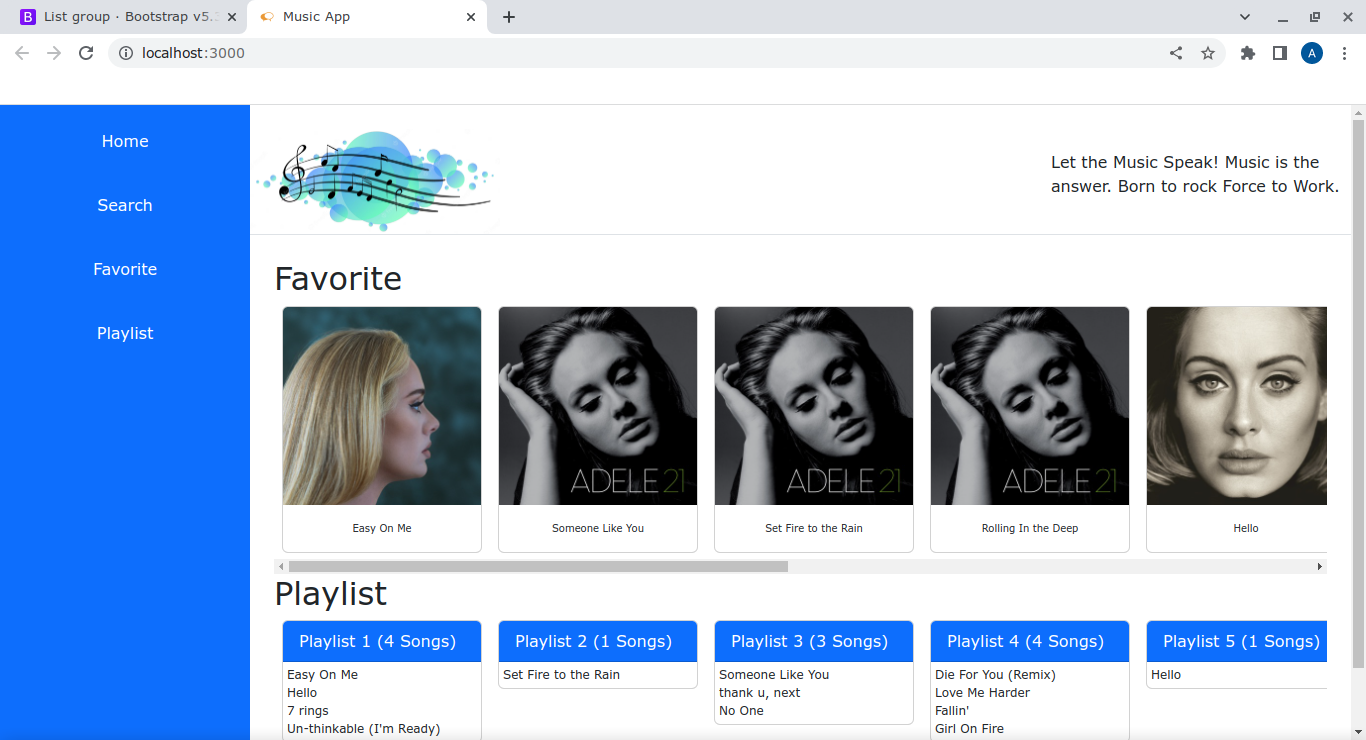
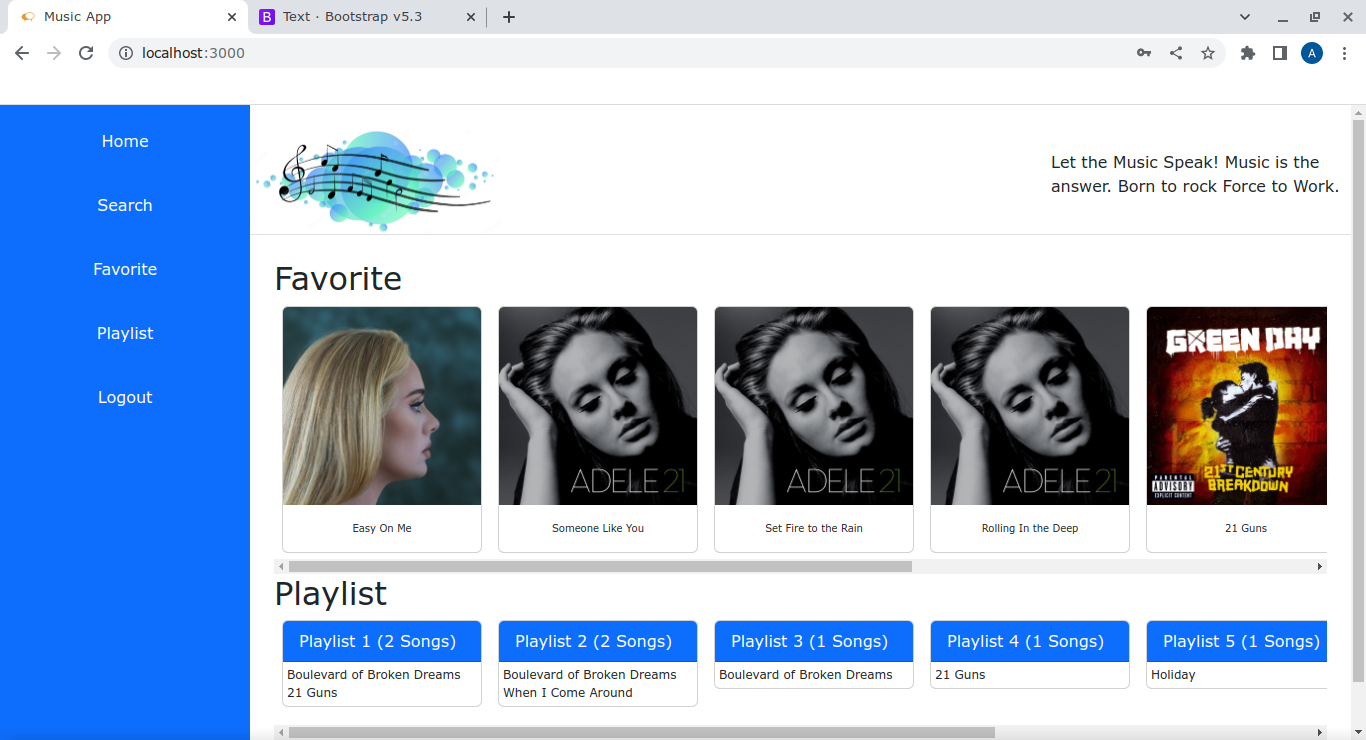
keycloak implementation

diff --git a/src/App.tsx b/src/App.tsx
@@ -3,10 +3,28 @@ import Search from "./components/Search";
 import Favorite from "./components/Favorite";
 import Playlist from "./components/Playlist";
 import { useAppContext } from "./context";
+import { useKeycloak } from "@react-keycloak/web";
 
 export default function App() {
   const { appStatus, handleAppStatus } = useAppContext();
-
+  const { keycloak } = useKeycloak();
+  const isLoggedIn = keycloak.authenticated;
+  if (!isLoggedIn) {
+    return (
+      <div className="position-fixed top-0 start-0 w-100 h-100 bg-white d-flex align-items-center justify-content-center">
+        <div className="d-flex  flex-column gap-4">
+          <h2 className="text-center fw-bold">Login with Keycloak</h2>
+          <button
+            className="btn btn-primary"
+            style={{ width: "100px", margin: "auto" }}
+            onClick={() => keycloak.login()}
+          >
+            Login
+          </button>
+        </div>
+      </div>
+    );
+  }
   return (
     <div className="py-4" style={{ marginLeft: "250px", minHeight: "100vh" }}>
       {/* Sidebar */}
@@ -41,6 +59,13 @@ export default function App() {
           style={{ cursor: "pointer" }}
         >
           Playlist
+        </p>
+        <p
+          className="text-white text-center font-weight-bold"
+          onClick={() => keycloak.logout()}
+          style={{ cursor: "pointer" }}
+        >
+          Logout
         </p>
       </div>
       {/* Home */}

diff --git a/src/index.tsx b/src/index.tsx
@@ -1,17 +1,18 @@
-import React from "react";
 import ReactDOM from "react-dom/client";
 
-import AppProvider from "./context";
 import App from "./App";
+import keycloak from "./keycloak";
+import AppProvider from "./context";
 import "bootstrap/dist/css/bootstrap.css";
+import { ReactKeycloakProvider } from "@react-keycloak/web";
 
 const root = ReactDOM.createRoot(
   document.getElementById("root") as HTMLElement
 );
 root.render(
-  <React.StrictMode>
+  <ReactKeycloakProvider authClient={keycloak}>
     <AppProvider>
       <App />
     </AppProvider>
-  </React.StrictMode>
+  </ReactKeycloakProvider>
 );

diff --git a/src/keycloak.ts b/src/keycloak.ts
@@ -1,0 +1,9 @@
+import Keycloak from "keycloak-js";
+
+const keycloak = new Keycloak({
+  url: process.env.REACT_APP_KEYCLOAK_URL || "",
+  realm: process.env.REACT_APP_KEYCLOAK_REALM || "",
+  clientId: process.env.REACT_APP_KEYCLOAK_CLIENTID || "",
+});
+
+export default keycloak;
